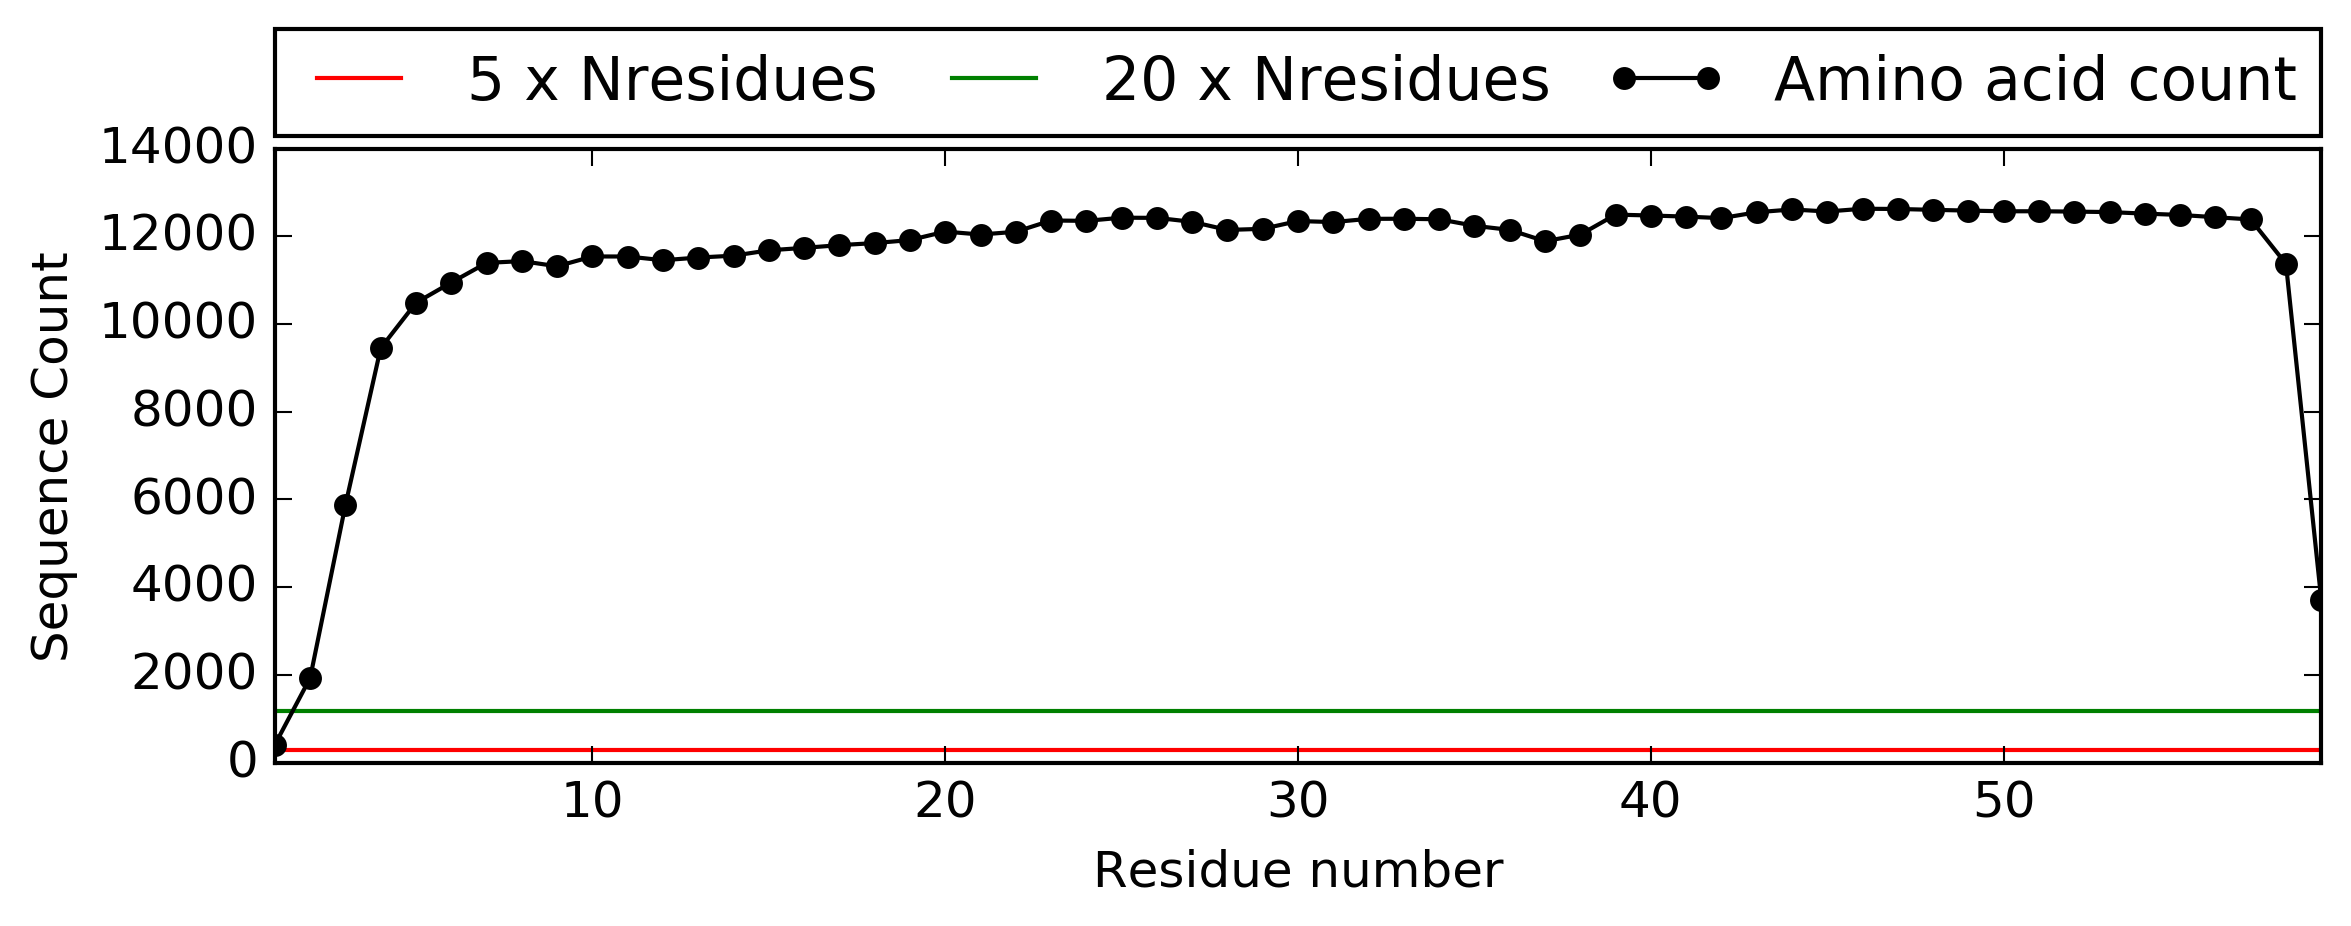
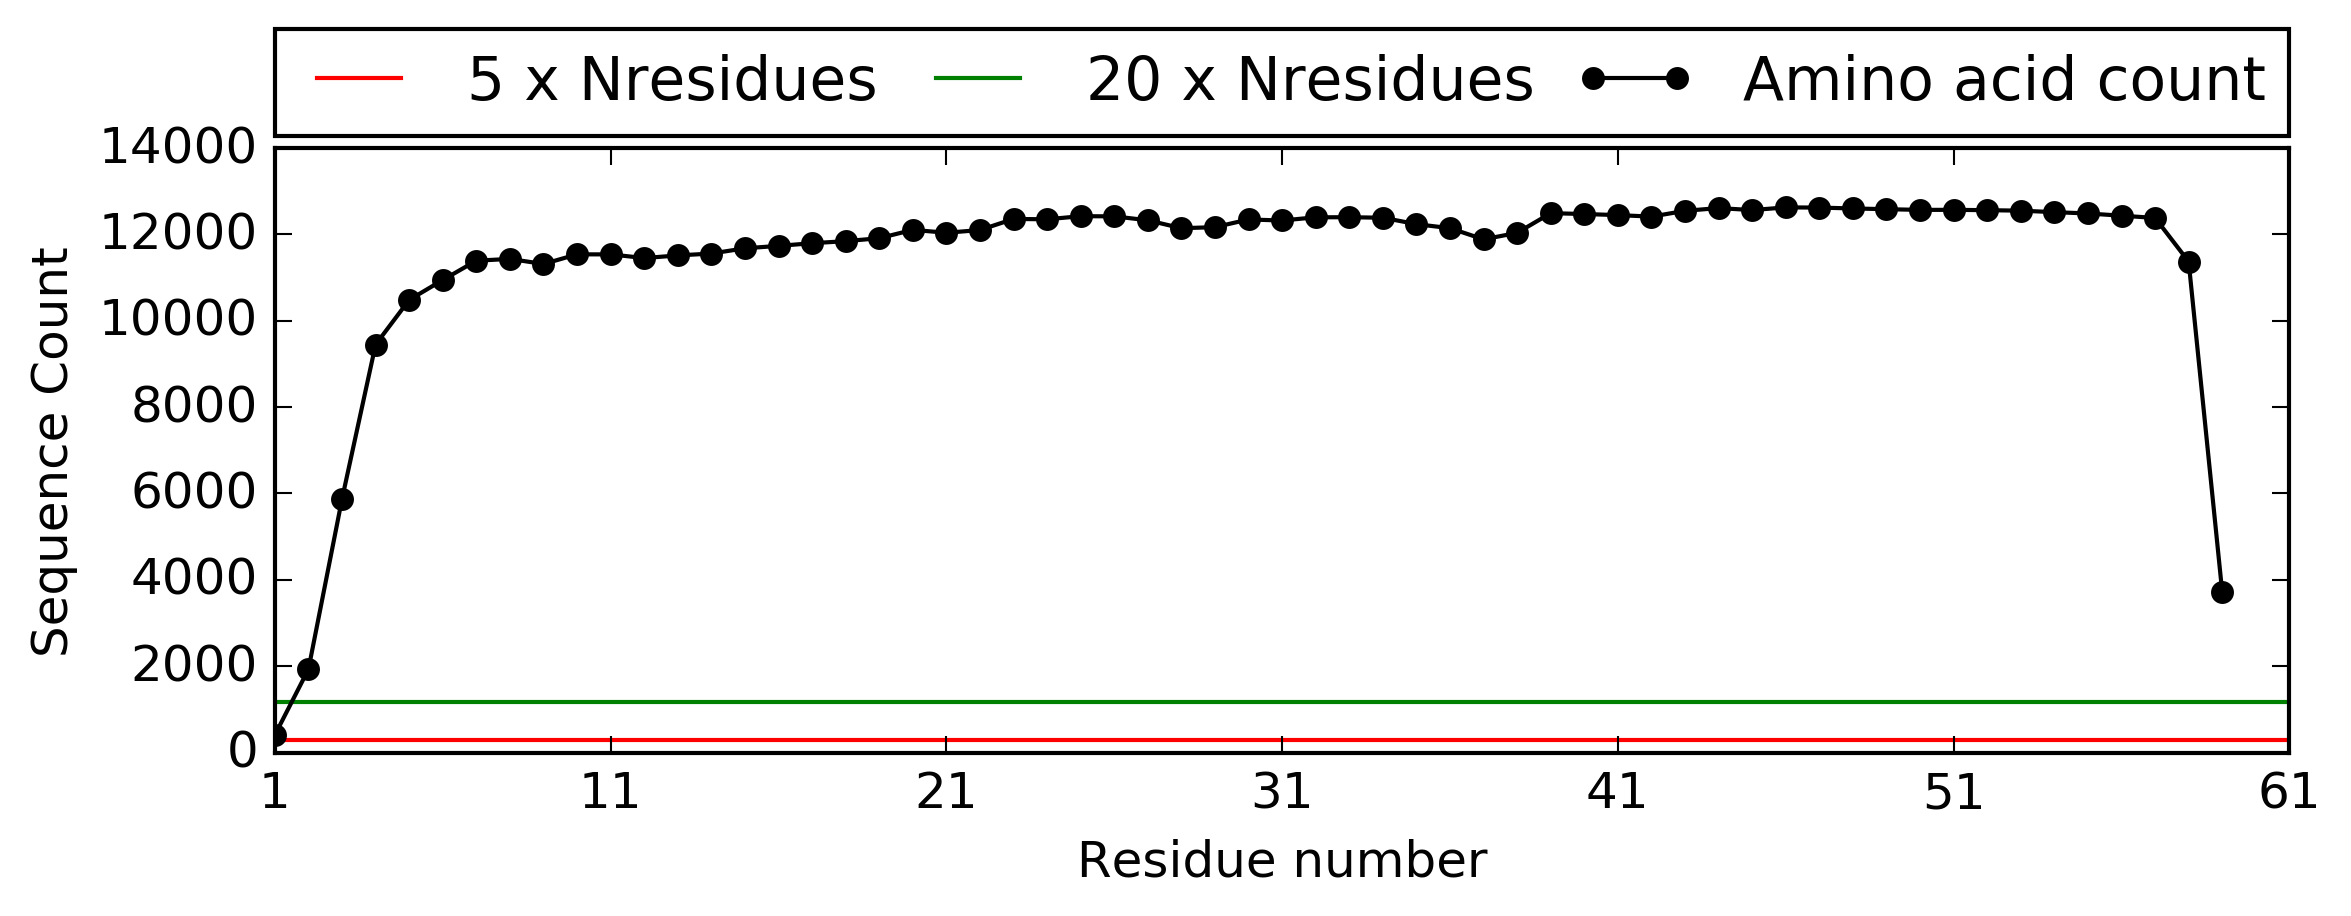
axes and vline fix

diff --git a/conkit/plot/PrecisionEvaluationPlot.py b/conkit/plot/PrecisionEvaluationPlot.py
@@ -168,13 +168,13 @@ class PrecisionEvaluationFigure(Figure):
         fig, ax = matplotlib.pyplot.subplots()
 
         # Add indicator lines for clarity of data
-        ax.axhline(0.5, color='#008E00', linestyle='-',  label='50% Precision', zorder=0)
-        # if self.min_cutoff <= 1.0:
-        #     ax.axvline(self._hierarchy.sequence.seq_len, color='#BDBDBD', linestyle='--', label='Factor L', zorder=0)
+        ax.axhline(0.5, color='#008E00', linestyle='-',  label='50% Precision')
+        if self.min_cutoff <= 1.0:
+            ax.axvline(1.0, color='#BDBDBD', linestyle='--', label='Factor L')
 
         # Add data points itself
-        ax.plot(factors, precisions, color='#000000', marker='o', markersize=2, linestyle='-',
-                label='Precision score', zorder=1)
+        ax.plot(factors, precisions, color='#000000', marker='o', markersize=5, linestyle='-',
+                label='Precision score')
 
         # Prettify the plot
         ax.set_xlim(self.min_cutoff, self.max_cutoff)

diff --git a/conkit/plot/SequenceCoveragePlot.py b/conkit/plot/SequenceCoveragePlot.py
@@ -105,7 +105,8 @@ class SequenceCoverageFigure(Figure):
 
         # Prettify the plot
         ax.set_xlim(residues[0], residues[-1])
-        xticks = (ax.get_xticks()).astype(numpy.int64)
+        xticks = ax.get_xticks().astype(numpy.int64) + residues[0]
+        ax.set_xticks(xticks)
         ax.set_xticklabels(xticks)
 
         ax.set_xlabel('Residue number')
